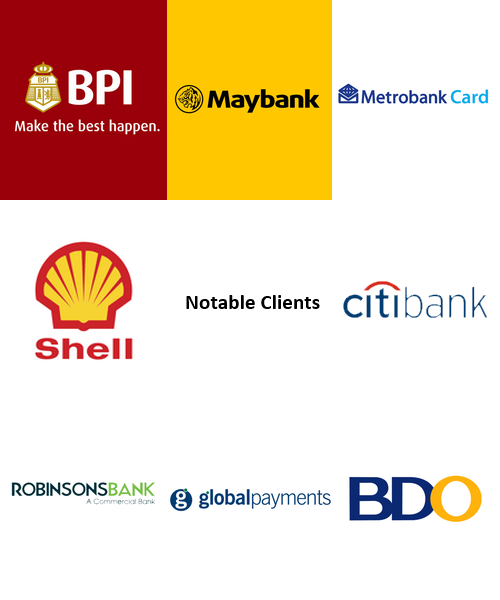
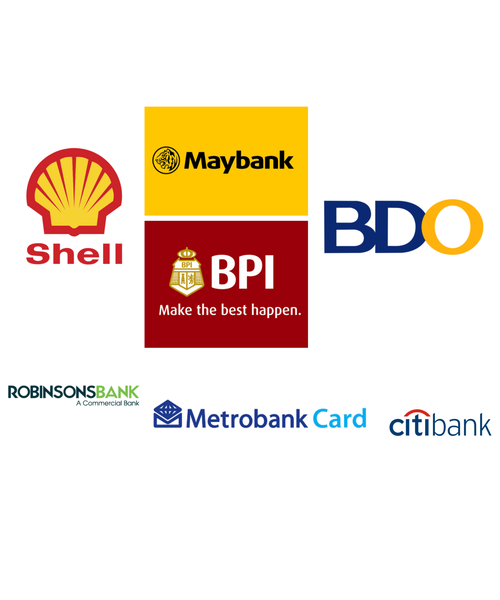
Add Features3

diff --git a/index.html b/index.html
@@ -111,7 +111,7 @@ body,h1,h2,h3,h4,h5 {font-family: "Raleway", sans-serif}
           	<h4 class="card-title">Manual Testing</h4>
           	<p class="card-text">Software Test</p>
        	  </div> -->
-      <img src="images/soon.png" style="width:100%" onclick="onClick(this)" alt="Coming Soon">
+      <img src="images/clients.png" style="width:100%" onclick="onClick(this)" alt="Project Involment">
           <!-- <div class="card-img-overlay">
           	<h4 class="card-title">Notable Clients</h4>
           	<p class="card-text">Project Involvement</p>
